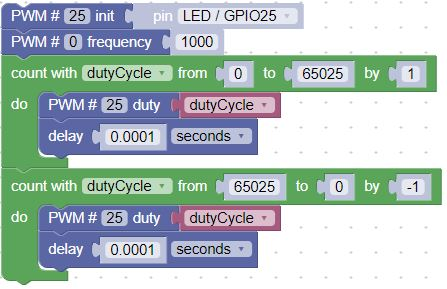
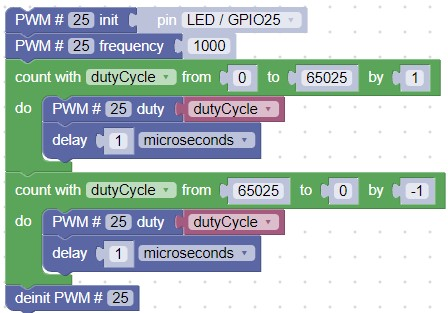
Deployed e85dedc with MkDocs version: 1.5.2

diff --git a/pico/basics/fadeInAndOut/index.html b/pico/basics/fadeInAndOut/index.html
@@ -1184,27 +1184,27 @@
 
 
 <h1 id="fade-an-led-in-and-out">Fade an LED in and Out</h1>
-<p>In the prior Blink lab, we turned an LED on an off at different speeds.  But what if we want to slowly turn on our LED on and off?  In this lab we will show you how to dim your LED to any brightness level you want.</p>
+<p>In the prior Blink labs, we turned LEDs on an off at different speeds.  But what if we want to slowly turn on our LED on and off?  In this lab we will show you how to dim your LED to any brightness level you want.</p>
 <h2 id="welcome-to-pulse-width-modulation">Welcome to Pulse Width Modulation</h2>
-<p><img alt="PWM Duty Cycle" src="../../../img/pico/PWM-duty-cycle.png" /></p>
 <p>Although digital computers are good at quickly turning signals on and off, they don't really allow us to easily set an output to a given voltage level without complex circuits.  But there is an easier way to adjust the brightness of an LED!  We can quickly turn the signal to the LED on and off.  We can do this so quickly that you can't even see it flicker.  Controlling the amount of time a signal is on is all about controlling the width of the ON pulse.  That is why this is called Pulse Width Modulation or PWM for short.</p>
 <p>With a PWM design there are two things we need to tell the microcontroller:</p>
 <ol>
 <li>How often do you want a square wave to go on and off?  The rate of change of the pulse is called the frequency.</li>
 <li>How wide should the on part of the pulse be (relative to the total width).  This is called the duty cycle.</li>
 </ol>
+<p><img alt="PWM Duty Cycle" src="../../../img/pico/PWM-duty-cycle.png" /></p>
 <p>A GPIO pin is declared a PWM output when you use the PWM block found in the <em>Machine: In/Out Pins</em> navigation section.  The block initializes a pin to be a PWM pin.  Frequency and duty cycle can then be set individually.  Conversly, the RPI PWM block lets you set both the frequency and duty cycle when the pin is initalized.</p>
 <p>Note that we can slow the frequency way down and the dimming effect will still work.  As an experiment you can change the PWM frequency to around 20 and you will see a distinct flicker as the LED turns on.</p>
-<p>Here is the sample program that will slowly dim the builtin LED that is on pin 25:</p>
+<p>Here is the sample set of blocks that will slowly brighten, then dim the builtin LED that is on pin 25:</p>
 <p><img alt="PWM Blocks" src="../../../img/pico/pwmBlocks.jpg" /></p>
-<p>Note that the duty cycle starts at 0 (always off) and moves slowly up to 65,025 (always on).  It then does the reverse and slowly dims the LED and then repeats.  There is only a 1/10,000 of a delay between these changes so the LED will completely turn on in about six seconds before it starts to dim again.</p>
+<p>Note that the duty cycle starts at 0 (always off) and moves slowly up to 65,025 (always on).  It then does the reverse and slowly dims the LED and then repeats.  There is only a 1 microsecond of a delay between these changes so the LED will completely turn on in about 8.5 seconds before it starts to dim again.</p>
 <h2 id="suggested-exercises">Suggested Exercises</h2>
 <ol>
 <li>Change the frequency from 1,000 to 500, 100, 50, 40, 30, 25, 20, and 10.  When can you just barley see it flicker?  What does this tell you about the human eye?</li>
 <li>Can you add a delay so that the LED stays on at full brightness for one second before it starts to dim again?</li>
 <li>Can you add a delay so that the LED is completely off for five seconds and then goes to full brightness and off in one second?</li>
 <li>What lights in your home would you like to see slowly dim on and off?  How could you modify a light (safely) so that it slowly dimmed on and off.  Would PWM work with all lightbulb types such as tungsten filament bulbs that take a long time to heat up and cool down?</li>
-<li>Can you hook up a set of red, green and blue LEDs program them to fade in and out to display all the colors of the rainbow (red, orange, yellow, green, blue, indigo and violet)?</li>
+<li>Can you hook up a set of red, green and blue LEDs and program them to fade in and out to display all the colors of the rainbow (red, orange, yellow, green, blue, indigo and violet)?</li>
 <li>When you stop the program does the LED stop changing brightness?  Does it retain the value that it had when you pressed the Stop function?  What does that tell you about how main CPU and the role of PWM? </li>
 </ol>
 <h2 id="references">References</h2>
